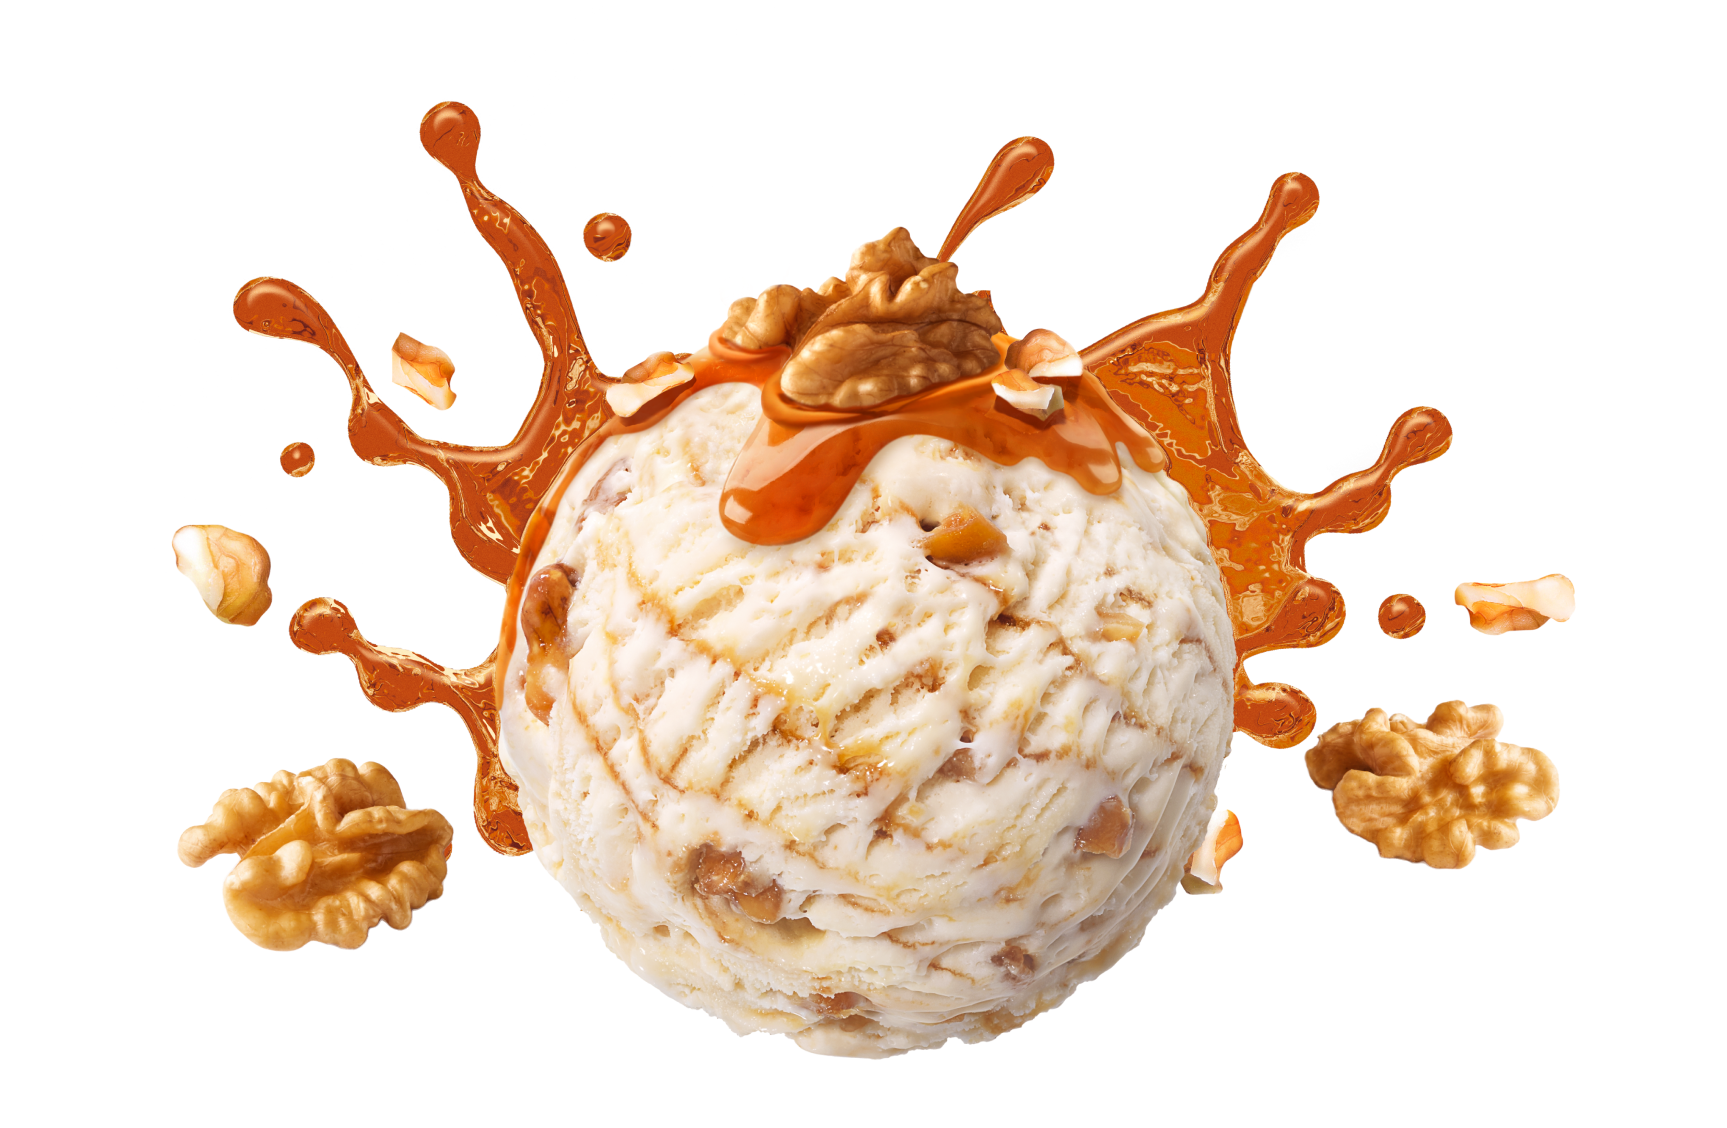
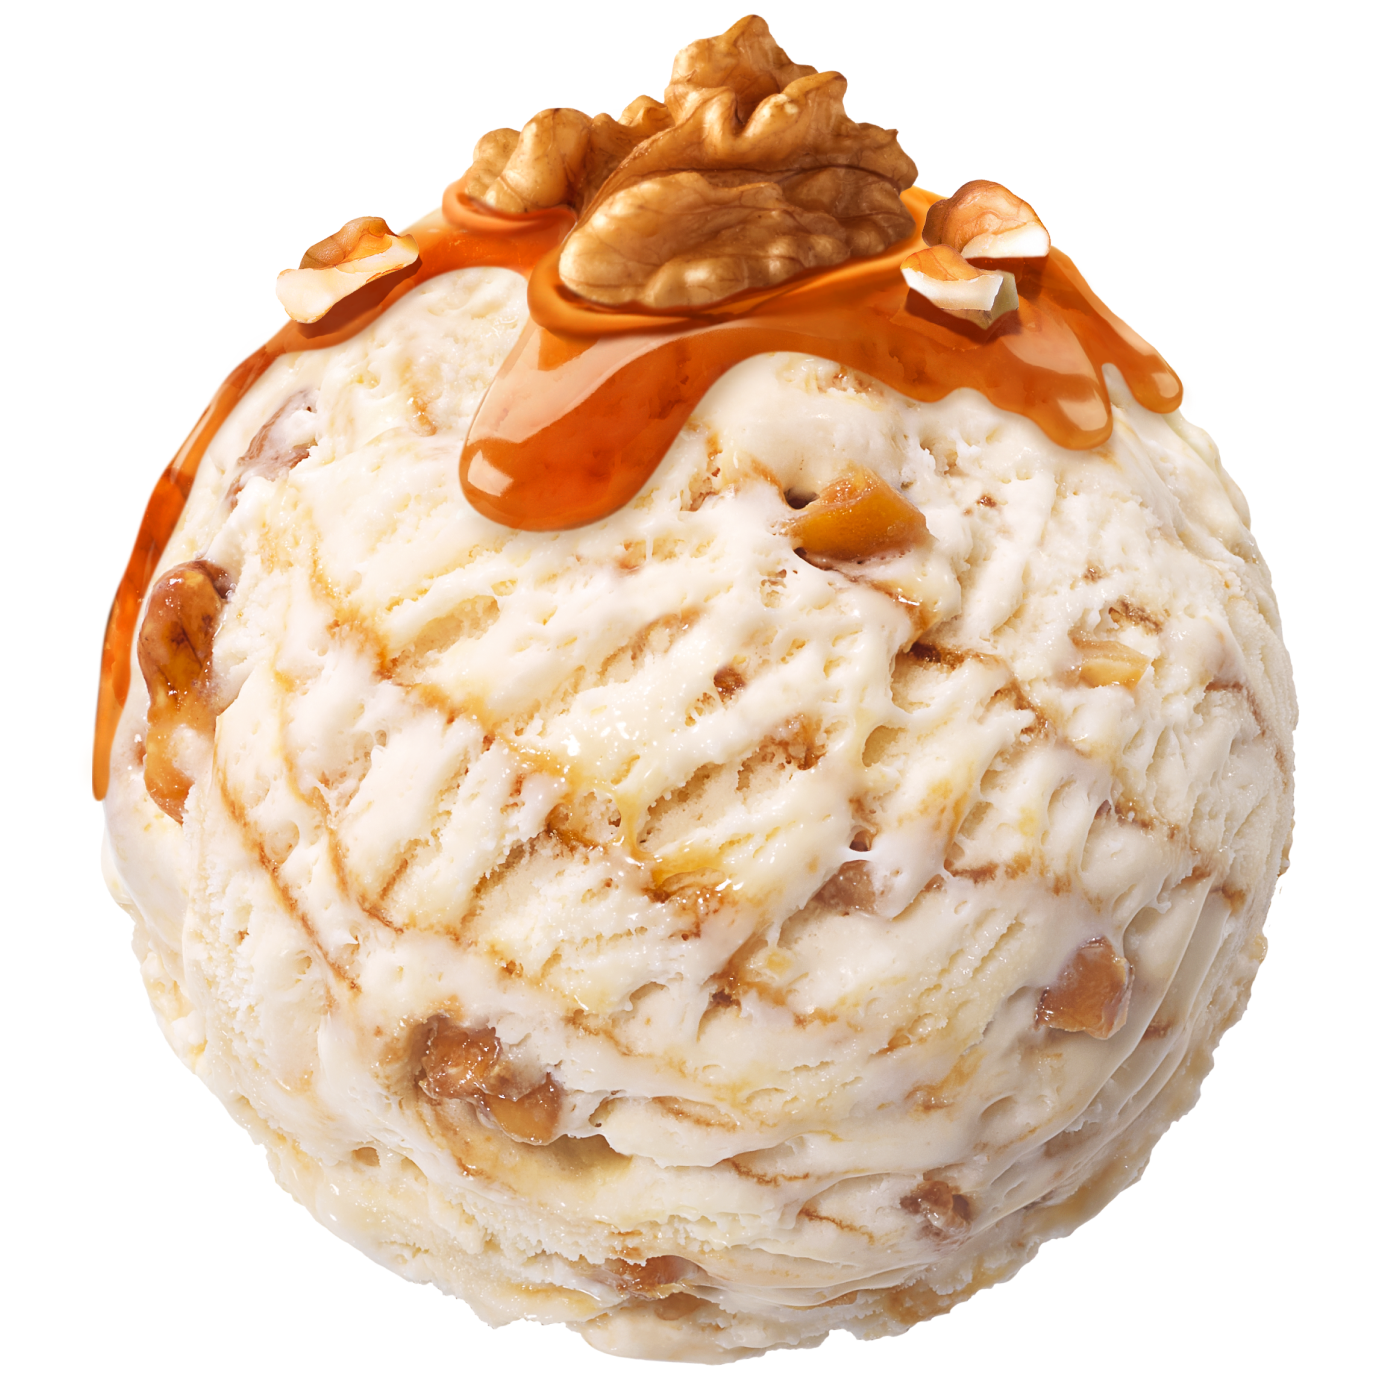
update page 13

diff --git a/new/new.css b/new/new.css
@@ -195,9 +195,13 @@
     display: flex;
     justify-content: center;
     margin-bottom: 90px;
-    margin-top: 60px;
-}
 
+}
+@media (max-width: 1300.98px) {
+    .base-buttons {
+        margin-top: 60px;
+    }
+}
 .base-buttons__item {
     font-family: 'Geometria';
     margin: 0 64px 0 0;
@@ -302,7 +306,7 @@ footer {
 }
 
 .base-slider__slide {
-    height: 420px !important;
+    height: 440px !important;
     display: flex;
     align-items: center;
     justify-content: center;
@@ -312,15 +316,27 @@ footer {
 @media (min-width: 991.98px) {
     .base-slider__slide {
 
-        width: calc(25% - 20px) !important;
+        width: 25% !important;
     }
     .base-slider__slide_big {
 
-        width: calc(30% - 20px) !important;
+        width: 30% !important;
     }
     .base-slider__slide_small {
 
-        width: calc(20% - 20px) !important;
+        width: 20% !important;
+    }
+    .base-slider__slide_big {
+        height: 460px !important;
+    }
+    .base-slider__slide_big img {
+        height: 100% !important;
+    }
+    .base-slider__body_second .swiper-wrapper {
+        align-items: center; !important;
+    }
+    .base-content__description_offset p {
+        margin-bottom: 64px !important;
     }
 }
 
@@ -385,10 +401,14 @@ footer {
         background-position: center center !important;
     }
 }
-
+.base-title {
+    position: relative;
+    z-index: 5;
+}
 @media (min-width: 1300.98px) {
     .page__banner_bottom {
-
+        position: relative;
+        bottom: 100px;
         min-height: 719px !important;
         height: 719px !important;
 
@@ -1035,23 +1055,86 @@ footer {
 }
 
 .base-banner__ice-cream img {
-    max-width: 1484px;
+    max-width: 777px;
     /*max-width: calc(1000px + 1484 * ((100vw - 320px) / 1920));*/
     height: auto;
     flex: 0 0 auto;
     position: absolute;
     left: 50%;
-    transform: translate(-50%, 35%);
+    transform: translate(-50%, 43%);
     bottom: 0;
+    z-index: 5;
+}
+.base-banner__caramel img {
+    transform: translate(-49.5%, 40%) scale(0);
+    opacity: 0;
+    visibility: hidden;
+}
+.base-banner__caramel.active img {
+    max-width: 1760px;
+    /*max-width: calc(1000px + 1484 * ((100vw - 320px) / 1920));*/
+    height: auto;
+    flex: 0 0 auto;
+    position: absolute;
+    left: 50%;
+    transform: translate(-49.5%, 40%);
+    bottom: 0;
+    z-index: 4;
+    opacity: 1;
+    visibility: visible;
+    transition: all 0.4s ease 0s;
+}
+.page__banner_bottom {
+    margin-top: 0 !important;
 }
 @media (min-width: 991.98px) and (max-width: 1500.98px) {
     .base-banner__ice-cream img {
-        transform: translate(-50%, 35%) scale(0.9);
+        transform: translate(-50%, 43%) scale(0.9);
+    }
+    .base-banner__caramel img {
+        transform: translate(-50%, 40%) scale(0);
+    }
+    .base-banner__caramel.active img {
+        transform: translate(-50%, 40%) scale(0.9);
     }
 }
-@media (min-width: 991.98px) and (max-width: 1200.98px) {
+@media (min-width: 991.98px) and (max-width: 1300.98px) {
     .base-banner__ice-cream img {
-        transform: translate(-50%, 35%) scale(0.77);
+        transform: translate(-50%, 43%) scale(0.77);
+    }
+    .base-banner__caramel img {
+        transform: translate(-50%, 43%) scale(0);
+    }
+    .base-banner__caramel.active img {
+        transform: translate(-50%, 43%) scale(0.77);
+    }
+}
+
+@media (min-width: 991.98px) and (max-width: 1100.98px) {
+    .base-banner__ice-cream img {
+        transform: translate(-50%, 43%) scale(0.7);
+    }
+    .base-banner__caramel img {
+        transform: translate(-50%, 43%) scale(0);
+    }
+    .base-banner__caramel.active img {
+        transform: translate(-50%, 43%) scale(0.7);
+    }
+}
+@media (max-width: 767.98px) {
+    .base-banner__caramel {
+        display: none;
+    }
+}
+@media (min-width: 767.98px) and (max-width: 991.98px) {
+    .base-banner__ice-cream img {
+        transform: translate(-50%, 43%) scale(0.55);
+    }
+    .base-banner__caramel img {
+        transform: translate(-50%, 43%) scale(0);
+    }
+    .base-banner__caramel.active img {
+        transform: translate(-50%, 43%) scale(0.55);
     }
 }
 @media (max-width: 991.98px) {
@@ -1074,6 +1157,9 @@ footer {
     .base-slider__slide {
         padding: 0 10px;
         margin-right: 0 !important;
+
+    }
+    .base-slider__body_first .base-slider__slide  {
         width: 25% !important;
         flex: 0 1 25% !important;
     }
@@ -1088,23 +1174,33 @@ footer {
     }
 
 }
+@media (min-width: 767.98px) and (max-width: 991.98px) {
+    .page__banner_top {
+        height: 600px !important;
+    }
+}
+/*@media (max-width: 500.98px) {*/
+/*    .base-banner__ice-cream img:last-child {*/
+/*        max-width: 100% !important;*/
+/*    }*/
+/*}*/
 @media (max-width: 767.98px) {
     .base-banner__ice-cream img:first-child {
         display: none;
     }
 
     .base-banner__ice-cream img {
-        transform: translate(-46%, 20px);
+        transform: translate(-46%, 0);
     }
     .base-banner__ice-cream img:last-child {
         max-width: 533px;
-        height: auto;
         width: 533px;
+        height: auto;
         margin: 0 auto;
     }
     .base-banner {
         background: none !important;
-        min-height: 670px !important;
+        min-height: 700px !important;
     }
     .page__banner {
         background-position: center bottom !important;

diff --git a/new/new.js b/new/new.js
@@ -143,5 +143,41 @@ document.addEventListener('DOMContentLoaded', function() {
 
 
 	})
+
+
+	const animItems = document.querySelectorAll('.anim-items');
+
+	if (animItems.length > 0) {
+		window.addEventListener('scroll', animOnScroll);
+		function animOnScroll() {
+			for (let index = 0; index < animItems.length; index++) {
+				const animItem = animItems[index];
+				const animItemHeight = animItem.offsetHeight;
+				const animItemOffset = offset(animItem).top;
+				const animStart = 4;
+
+				let animItemPoint = window.innerHeight - animItemHeight / animStart;
+				if (animItemHeight > window.innerHeight) {
+					animItemPoint = window.innerHeight - window.innerHeight / animStart;
+				}
+
+				if (
+					pageYOffset > animItemOffset - animItemPoint &&
+					pageYOffset < animItemOffset + animItemHeight
+				) {
+					animItem.classList.add('active');
+				}
+			}
+		}
+		function offset(el) {
+			const rect = el.getBoundingClientRect();
+			const scrollLeft = window.pageXOffset || document.documentElement.scrollLeft;
+			const scrollTop = window.pageYOffset || document.documentElement.scrollTop;
+			return { top: rect.top + scrollTop, left: rect.left + scrollLeft };
+		}
+		setTimeout(() => {
+			animOnScroll();
+		}, 800);
+	}
 })
 

diff --git a/monterra.html b/monterra.html
@@ -76,6 +76,9 @@
         <img src="new/img/slogan.png" alt="">
         <img src="new/img/slogan_adaptive.svg" alt="">
     </div>
+    <div class="base-banner__caramel anim-items">
+        <img src="new/img/caramel.png" alt="">
+    </div>
     <div class="base-banner__ice-cream">
         <img src="new/img/ice-cream.png" alt="">
         <img src="new/img/ball-adaptive.png" alt="">
@@ -479,7 +482,7 @@
             </div>
             <div class="base-content">
                 <div class="base-title">Изысканные рецептуры нашего <br>мороженого Monterra создаются <br>мастерами, которые любят и&nbsp;знают <br>своё дело</div>
-                <div class="base-content__description">
+                <div class="base-content__description base-content__description_offset">
                     <p>Мы&nbsp;используем натуральные отборные ингредиенты и&nbsp;особые технологии замешивания слоёв, чтобы&nbsp;каждый продукт Monterra стал шедевром.</p>
                 </div>
             </div>
